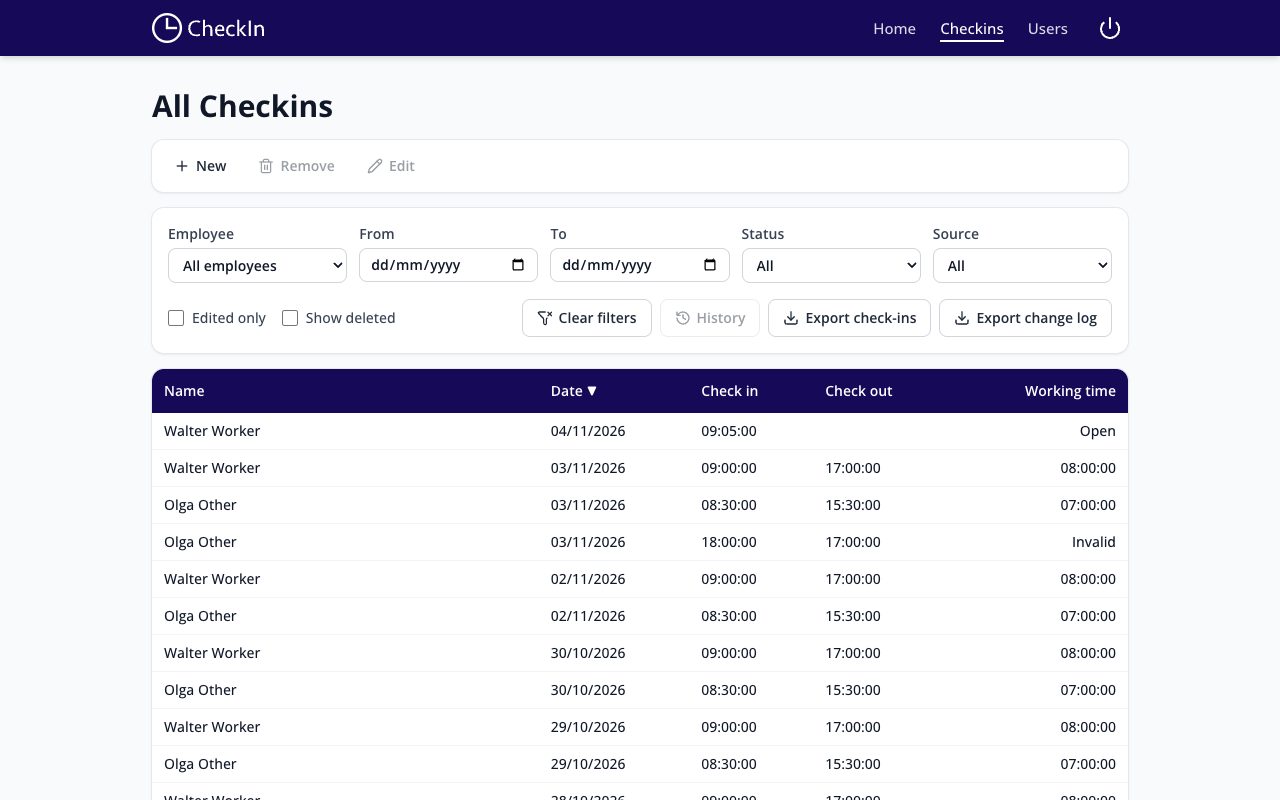
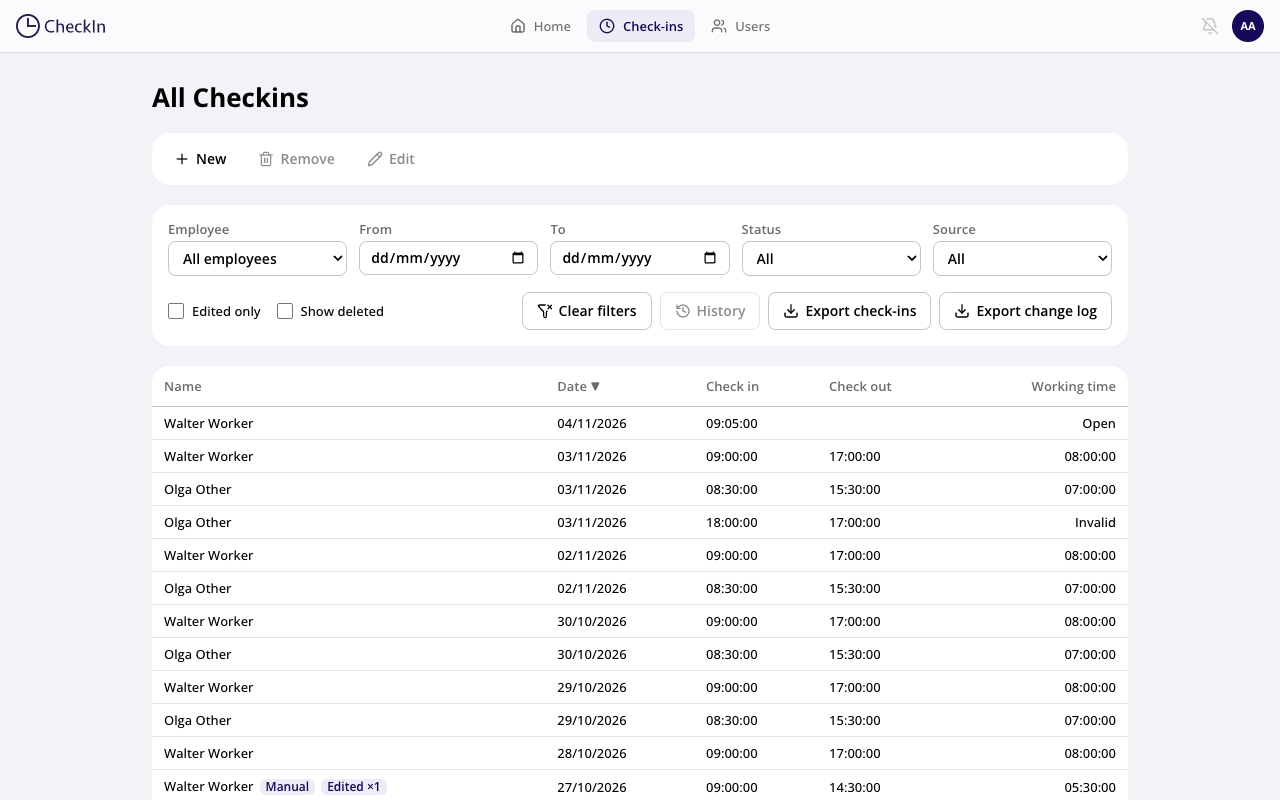
Take desktop screenshots in Light and Dark for ADR 0006

diff --git a/e2e/screenshots.spec.js b/e2e/screenshots.spec.js
@@ -1,19 +1,12 @@
 import { loginAs, phone, test } from "./support/test.js";
 
-// The manifest's screenshots for Android's install sheet. Run with `npm run screenshots`, not with the suite.
-// Their sizes are in vite.config.js: 780×1688 for a phone at 2×, 1280×800 for desktop.
+// The manifest's screenshots for Android's install sheet, and ADR 0006's desktop screens in both themes.
+// Run with `npm run screenshots`, not with the suite.
+// The manifest's sizes are in vite.config.js: 780×1688 for a phone at 2×, 1280×800 for desktop.
 const out = (name) => `public/screenshots/${name}.png`;
 
 async function settle(page) {
-  // The desktop clock button pulses forever, so only finite animations are awaited.
-  await page.evaluate(() =>
-    Promise.all(
-      document
-        .getAnimations()
-        .filter((animation) => animation.effect.getTiming().iterations !== Infinity)
-        .map((animation) => animation.finished),
-    ),
-  );
+  await page.evaluate(() => Promise.all(document.getAnimations().map((animation) => animation.finished)));
 }
 
 test.describe("on a phone", () => {
@@ -40,4 +33,38 @@ test("desktop check-ins", async ({ page }) => {
   await page.getByRole("table", { name: "Check-ins" }).getByRole("cell").first().waitFor();
   await settle(page);
   await page.screenshot({ path: out("desktop") });
+});
+
+// Home clocked in, Home with a missing check-out, and the admin's Check-ins and Users.
+test.describe("desktop screens for ADR 0006", () => {
+  test.use({ viewport: { width: 1280, height: 800 } });
+
+  const screens = [
+    ["home", "worker@example.com", "/", (page) => page.getByRole("region", { name: "This week" })],
+    ["home-olga", "olga@example.com", "/", (page) => page.getByRole("region", { name: "This week" })],
+    [
+      "checkins",
+      "admin@example.com",
+      "/checkins",
+      (page) => page.getByRole("table", { name: "Check-ins" }).getByRole("cell").first(),
+    ],
+    [
+      "users",
+      "admin@example.com",
+      "/users",
+      (page) => page.getByRole("table", { name: "Users" }).getByRole("cell").first(),
+    ],
+  ];
+
+  for (const colorScheme of ["light", "dark"]) {
+    test(`in ${colorScheme}`, async ({ page }) => {
+      await page.emulateMedia({ colorScheme });
+      for (const [name, email, path, ready] of screens) {
+        await loginAs(page, email, path);
+        await ready(page).waitFor();
+        await settle(page);
+        await page.screenshot({ path: `adrs/assets/0006/app-${colorScheme}-${name}.png` });
+      }
+    });
+  }
 });

diff --git a/adrs/0006-desktop-like-a-mac-app.plan.md b/adrs/0006-desktop-like-a-mac-app.plan.md
@@ -107,13 +107,14 @@ The macOS sizes and their sources are in `adrs/assets/0006/apple-macos-notes.md`
 - In `e2e/screenshots.spec.js`:
   - the desktop store screenshot is retaken, since the manifest's `desktop.png` shows the old navy look
   - add 1280×800 shots in light and dark of Home (Walter clocked in, and Olga with a missing check-out), Check-ins and Users
-  - save them to `adrs/assets/0006/app-desktop-light.png` and `app-desktop-dark.png`, as contact sheets like ADR 0003's
+  - save them to `adrs/assets/0006/app-{light,dark}-{home,home-olga,checkins,users}.png`
 - Update the `settle` comment, since nothing pulses any more.
 - Set this ADR to Accepted once the owner approves.
 - **Verify:**
   - The owner looks at the screenshots against the mockups.
   - A last full `npm run lint && npm test && npm run e2e && npm run build`.
-- **Done:** no
+- **Done:** screenshots taken and the full checks pass. The owner's review is still to come.
+  - The phone store screenshot `home.png` changed too. The old one had been taken before the Today card loaded.
 
 ## Open questions
 
